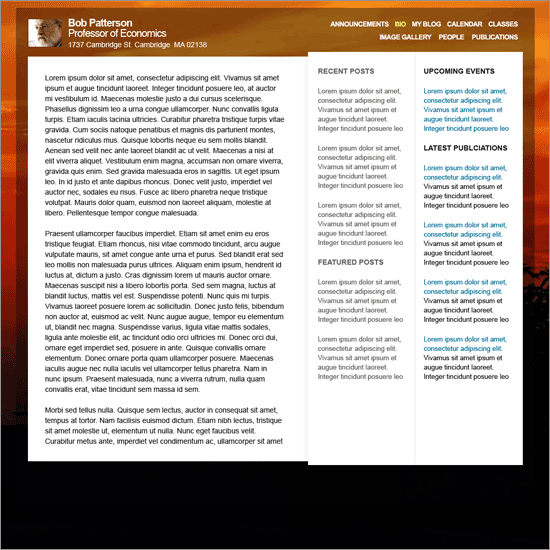
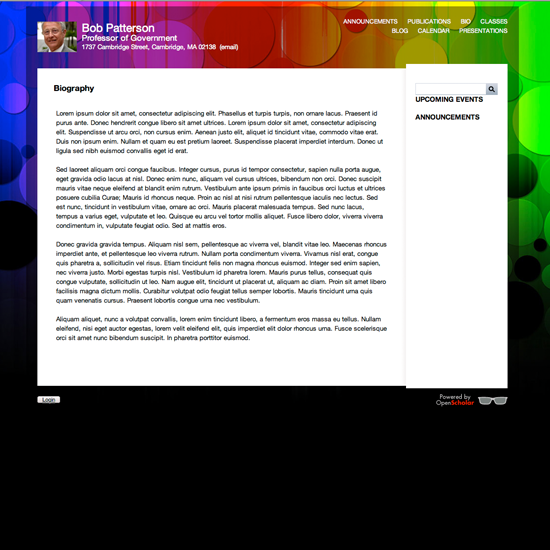
themes fixes

diff --git a/sites/all/themes/openscholar/scholar_bigpic/scholar-bigpic.css b/sites/all/themes/openscholar/scholar_bigpic/scholar-bigpic.css
@@ -21,7 +21,6 @@ a:hover {
 #header p a:visited {
   color: #fff;
   font-weight: normal;
-  letter-spacing: -1px;
   }
 
 #header h1 {
@@ -35,7 +34,7 @@ a:hover {
   }
 
 #header p {
-  font-size: 15px;
+  font-size: 13px;
   margin:0;
   }
 
@@ -71,14 +70,10 @@ a:hover {
   padding: 21px 23px;
   }
 
-#header,
-#navbar {
-  display:inline-block;
-  }
-
 #header {
   width:540px;
   padding-bottom: 9px;
+  float: left;
   }
 
 #navbar {
@@ -155,32 +150,31 @@ a:hover {
 
 #header-left,
 #header-right,
-#logo {
-  width:68px;
+#header #logo {
+  width:80px;
+  }
+
+#header #scholar-shield {
+  width: 55px;
   }
 
 #header-left {
-  left: -98px;
+  left: -100px;
   padding-left: 0;
   }
 
 #header-right {
-  margin-right: -98px;
   padding-right: 0;
+  padding-left: 0;
   }
 
 #header .hg-container {
-  padding-left: 78px;
-  padding-right: 98px;
-  }
-
-.navbar-on #header .hg-container {
-  float: left;
-  width: 473px;
+  padding-left: 80px;
+  padding-right:100px;
   }
 
 #navbar {
-  width: 413px;
+  width: 400px;
   float: right;
   clear: none;
   }

diff --git a/sites/all/themes/openscholar/scholar_airstream/flavors/khaki/khaki.css b/sites/all/themes/openscholar/scholar_airstream/flavors/khaki/khaki.css
@@ -13,7 +13,7 @@ body.navbar-on #wrapper {
   }
 
 a, a:visited {
-  color: #b0a67e;
+  color: #7F6910;
   }
 
 a:hover {
@@ -25,8 +25,10 @@ a:hover {
 
 #navbar a,
 #navbar a:visited,
-#sidebar-first ul.menu li a,
-#sidebar-first ul.menu li a:visited {
+#sidebar-first a,
+#sidebar-first a:visited,
+#sidebar-first #block-vsite_menus-0 li a,
+#sidebar-first #block-vsite_menus-0 li a:visited {
   color: #282828;
   }
 
@@ -36,8 +38,12 @@ a:hover {
 #sidebar-first  ul.menu li a.active,
 #navbar li.active-trail,
 #sidebar-first  ul.menu li.active-trail {
-  background:#b0a67e;
-  color: #fff;
+  background:#E3D393;
+  color: #222;
+  }
+
+#sidebar-first #block-vsite_menus-0 li a {
+  border-color: #A08723;
   }
 
 /*Navbar Specific */
@@ -45,5 +51,5 @@ a:hover {
 #navbar li,
 #navbar li.first,
 #sidebar-first li a {
- border-color: #b0a67e;
+ border-color: #C4B371;
   }

diff --git a/sites/all/themes/openscholar/scholar_base/js/scholar_base.js b/sites/all/themes/openscholar/scholar_base/js/scholar_base.js
@@ -1,16 +1,14 @@
-(function ($) {
-$.fn.vAlign = function() {
+$.fn.vAlign = function(offset) {
 	return this.each(function(i){
 	var ah = $(this).height();
 	var ph = $(this).parents('.wrap').height();
-	var mh = Math.ceil((ph-ah) / 2) - 10;
+	var mh = Math.ceil((ph-ah) / 2) - offset;
 	$(this).css('margin-top', mh);
 	});
 };
-})(jQuery);
 
 $(document).ready(function() {
-  $('#header #block-scholar-1').vAlign();
-  $('#header #block-scholar_project-1').vAlign();
-  $('#header #scholar-shield').vAlign();
+  $('#header #block-scholar-1').vAlign(10);
+  $('#header #block-scholar_project-1').vAlign(10);
+  $('#header #scholar-shield').vAlign(20);
 });

diff --git a/sites/all/themes/openscholar/scholar_airstream/flavors/green/green.css b/sites/all/themes/openscholar/scholar_airstream/flavors/green/green.css
@@ -23,6 +23,11 @@ a:hover {
 
 /*Navbar & sidebar shared */
 
+#sidebar-first a,
+#sidebar-first a:visited {
+  color: #6D8258;
+  }
+
 #navbar a,
 #navbar a:visited,
 #sidebar-first ul.menu li a,
@@ -44,5 +49,5 @@ a:hover {
 #navbar li,
 #navbar li.first,
 #sidebar-first li a {
- border-color: #b0c0a0;
+ border-color: #A6B598;
   }

diff --git a/sites/all/themes/openscholar/scholar_weft/scholar-weft.css b/sites/all/themes/openscholar/scholar_weft/scholar-weft.css
@@ -165,6 +165,10 @@ p.copy a.poweredby {
   padding:0;
   }
 
+#scholar-shield {
+  width: 65px;
+  }
+
 #navbar .wrap {
   padding:0;
   }

diff --git a/sites/all/themes/openscholar/scholar_bigpic/flavors/fall_day/fall-day.css b/sites/all/themes/openscholar/scholar_bigpic/flavors/fall_day/fall-day.css
@@ -1,3 +1,3 @@
 body {
-  background-image:url(images/background02.jpg);
+  background:url('images/fall-day.jpg');
   }

diff --git a/sites/all/themes/openscholar/scholar_bigpic/flavors/rothko/rothko.css b/sites/all/themes/openscholar/scholar_bigpic/flavors/rothko/rothko.css
@@ -1,0 +1,3 @@
+body {
+  background:url('images/rothko.jpg') 50% 0 no-repeat #444;
+  }
